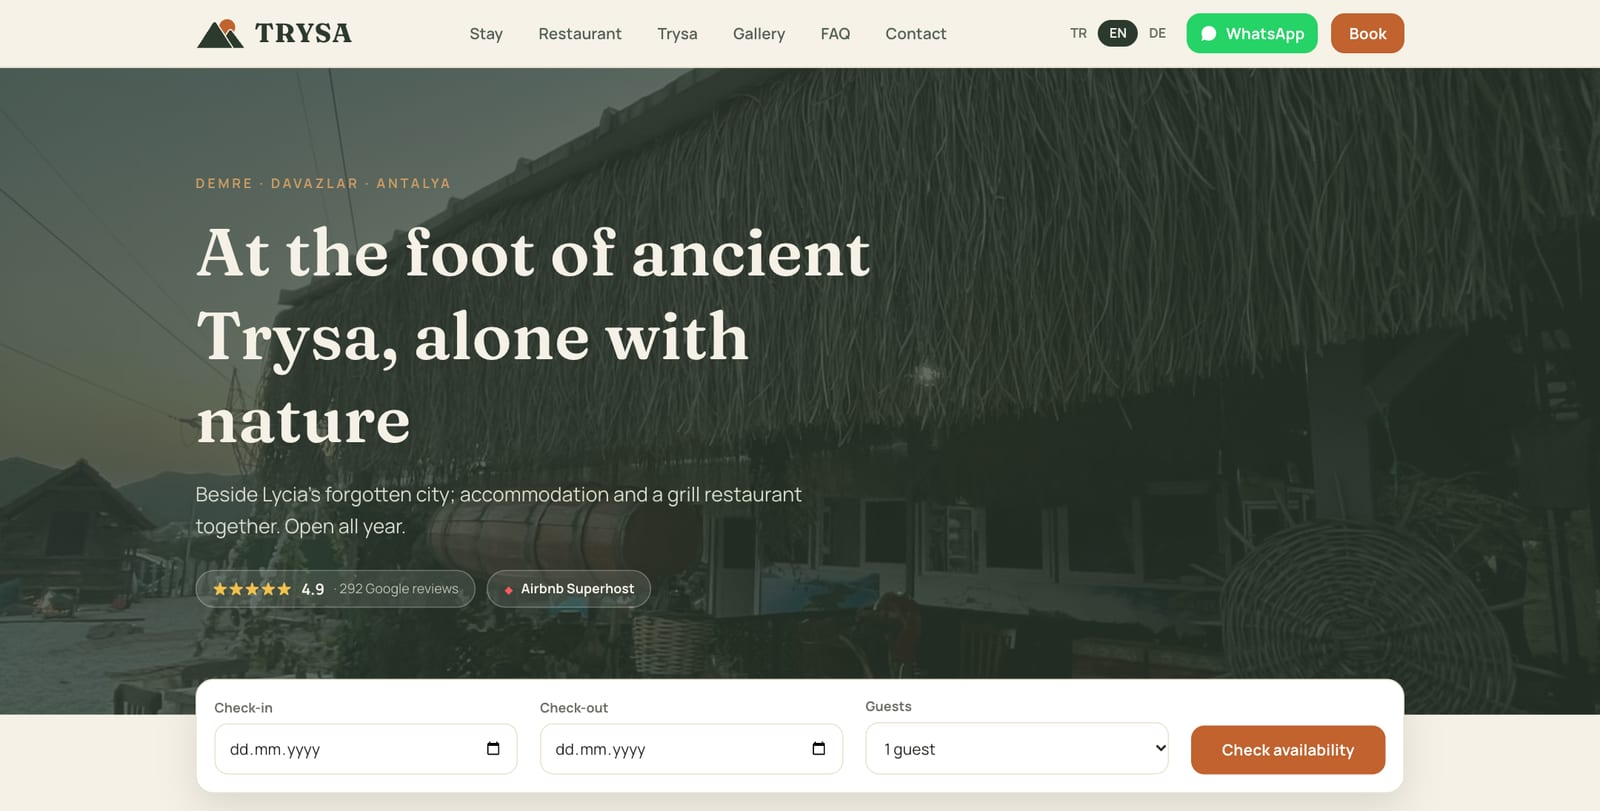
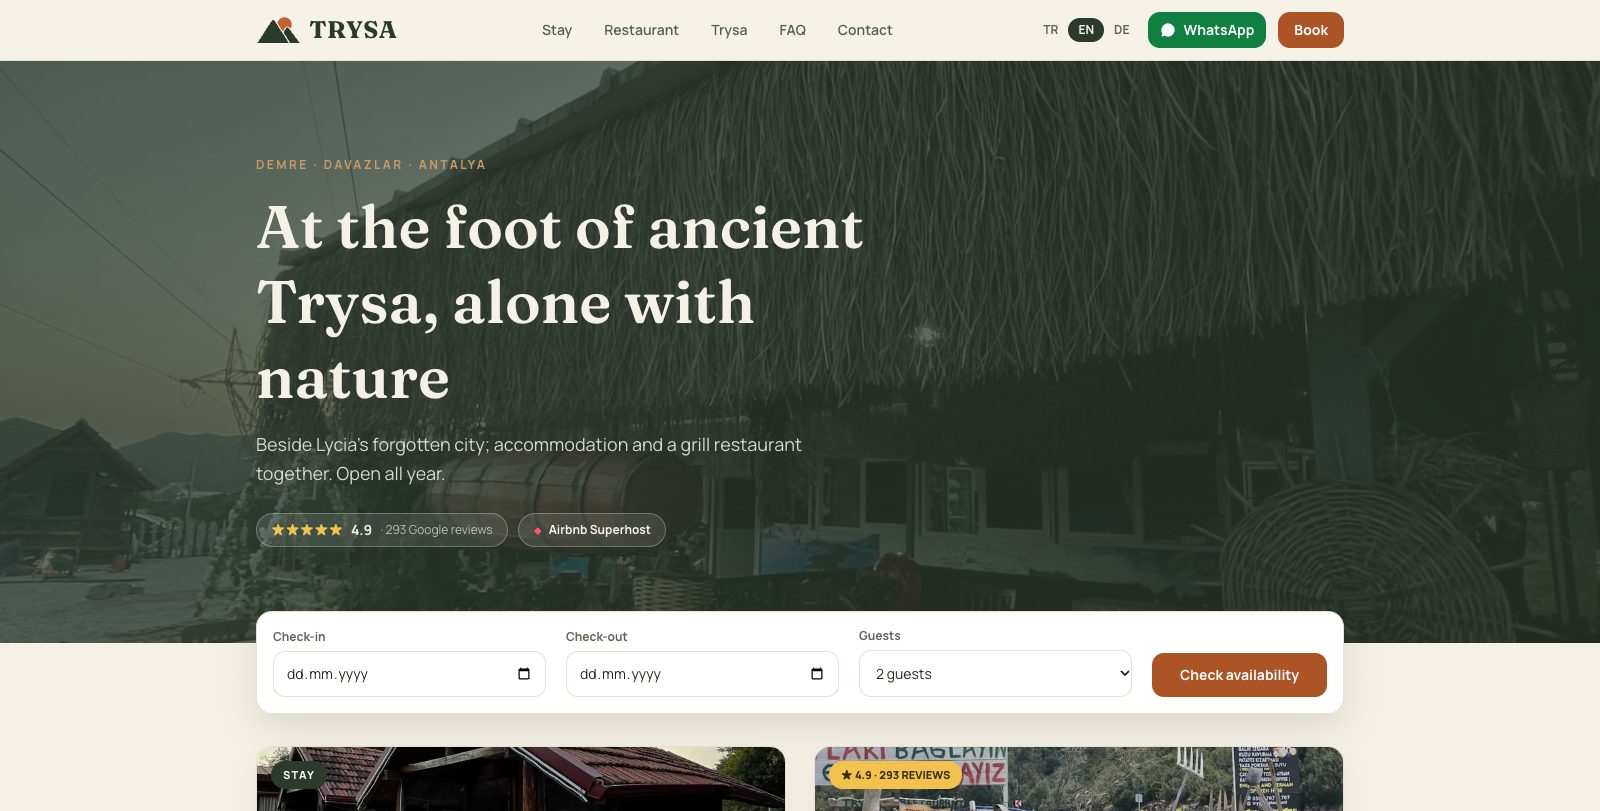
Show the restaurant features and measured results in the README
Adds screenshots of the public QR menu, the panel's menu editor and the
printable QR cards, retakes the home page screenshot without the removed
gallery, states that the AI concierge is switched off in production, adds the
Lighthouse results measured on the live site, updates the test count and
lists the Airbnb calendar fallback as known work.

Changed region(s): [[0.0, 0.0, 1.0, 1.0], [0.5625, 0.4007, 0.5938, 0.4932]]

diff --git a/README.md b/README.md
@@ -5,6 +5,8 @@
 
 Website, booking system and staff panel for **Trysa Restaurant Camping**, my family's small guesthouse and restaurant in Demre, Antalya: six wooden rooms and cabins, a tiny house, a camping area and a grill restaurant. It is live at [trysacamping.com](https://trysacamping.com), and the family handles incoming requests from its staff panel.
 
+**At a glance:** Next.js 16 · React 19 · TypeScript · PostgreSQL (Neon) with Drizzle · Vercel. Live since September 2026, in three languages, with 162 unit and integration tests plus end-to-end tests in CI.
+
 ![The public site](docs/screenshots/site-desktop.jpg)
 
 ## The problem
@@ -30,7 +32,7 @@ I built and run this on my own: gathered requirements with the family, chose the
 - A booking form with an availability calendar per room: nights taken on Airbnb or confirmed directly are shown as booked, the stay can only end on the morning of the next booking, and the server re-checks on submit. Keyboard and screen-reader accessible (WAI-ARIA date grid)
 - Dates chosen on the home page or a room page carry over into the form
 - A QR menu on the restaurant tables that opens in the language of the guest's phone, with dishes sold out today marked
-- An AI concierge (Claude Haiku 4.5) that answers questions in their language from the site's own content, checks real availability through a tool, and hands over to a prefilled booking form or to the family on WhatsApp; it never confirms bookings itself
+- An AI concierge (Claude Haiku 4.5) that answers questions in their language from the site's own content, checks real availability through a tool, and hands over to a prefilled booking form or to the family on WhatsApp; it never confirms bookings itself. It is built and tested end to end, but switched off in production until the business sets aside an API budget: it appears once an API key is configured
 - Branded emails in their language along the stay: request received, booking confirmed (sent when the family confirms), directions and arrival times the day before arrival, and after check-out one review request for guests who opted in on the form
 
 **For the family** (staff panel at `/panel`, mobile-first, installable as a PWA, in Turkish)
@@ -60,6 +62,21 @@ I built and run this on my own: gathered requirements with the family, chose the
     <td align="center"><sub>Occupancy calendar</sub></td>
     <td align="center"><sub>Statistics</sub></td>
     <td align="center"><sub>Availability calendar</sub></td>
+  </tr>
+</table>
+
+**The restaurant**
+
+<table>
+  <tr>
+    <td><img src="docs/screenshots/menu-mobile.png" width="200" alt="Public menu in English with food photos, category tabs and the Turkish dish names"></td>
+    <td><img src="docs/screenshots/panel-menu.png" width="200" alt="Menu editor in the panel: prices and a dish marked not available today"></td>
+    <td><img src="docs/screenshots/panel-cards.png" width="200" alt="Printable QR cards for the tables and the rooms"></td>
+  </tr>
+  <tr>
+    <td align="center"><sub>QR menu (guest)</sub></td>
+    <td align="center"><sub>Menu editor (family)</sub></td>
+    <td align="center"><sub>Printable QR cards</sub></td>
   </tr>
 </table>
 
@@ -111,10 +128,11 @@ The full reasoning, alternatives and costs are in [`docs/decisions`](docs/decisi
 
 ## Quality
 
-- **153 tests** (unit and integration) run against PGlite with the production migrations, so constraints, races between workers and retry timing are tested for real, with no mocks of the database and no Docker ([ADR 0005](docs/decisions/0005-real-postgres-in-tests-with-pglite.md)).
+- **162 tests** (unit and integration) run against PGlite with the production migrations, so constraints, races between workers and retry timing are tested for real, with no mocks of the database and no Docker ([ADR 0005](docs/decisions/0005-real-postgres-in-tests-with-pglite.md)).
 - **End-to-end tests** (Playwright, on a phone-sized Chromium) run against a production build and a throwaway in-memory database: a guest sends a request, the family confirms it in the panel and the next guest finds those nights booked; a bot filling the hidden field is told "success" while nothing is stored, and the drop shows up in the panel statistics; the panel stays closed without signing in; a price changed in the panel reaches the German menu. The test server blanks every variable from local `.env` files, so a run can never email the family or reach a real database.
 - **CI** runs lint, type checks, tests, a production build and the end-to-end tests without any secrets on every push.
-- **Performance:** photos went from 26 MB to 11.6 MB with responsive sizes; on a phone the home page downloads about 0.9 MB of images instead of 8.5 MB.
+- **Performance:** photos went from 26 MB to 11.6 MB with responsive sizes; on a phone the home page downloads about 0.9 MB of images instead of 8.5 MB. Measured on the live site with Lighthouse (mobile, median of two runs, 1 October 2026), a room page went from a performance score of 63 to 98 and from an 8.0 s to a 2.5 s Largest Contentful Paint, after the cover photo was given priority and the footer map was loaded on tap.
+- **Accessibility:** Lighthouse accessibility went from 95–96 to 100 on the home, booking, menu and room pages (colour contrast fixes); best practices and SEO score 100.
 - **SEO:** per-page canonical URLs and `hreflang`, localized JSON-LD (`LodgingBusiness` + `Restaurant`, FAQ), a sitemap with language alternates.
 
 ## Running locally
@@ -177,6 +195,7 @@ The code, comments and documentation are in English. URLs stay Turkish (`/rezerv
 
 ## What's next
 
+- Keep using a room's last known Airbnb calendar when Airbnb can't be reached: today that room looks free until the calendar is readable again; the family still confirms every request by hand, and the admins get an alert after 3 hours
 - An evaluation set of real guest questions for the AI concierge, run in CI on prompt changes
 - Ordering from the table, building on the QR menu
 
